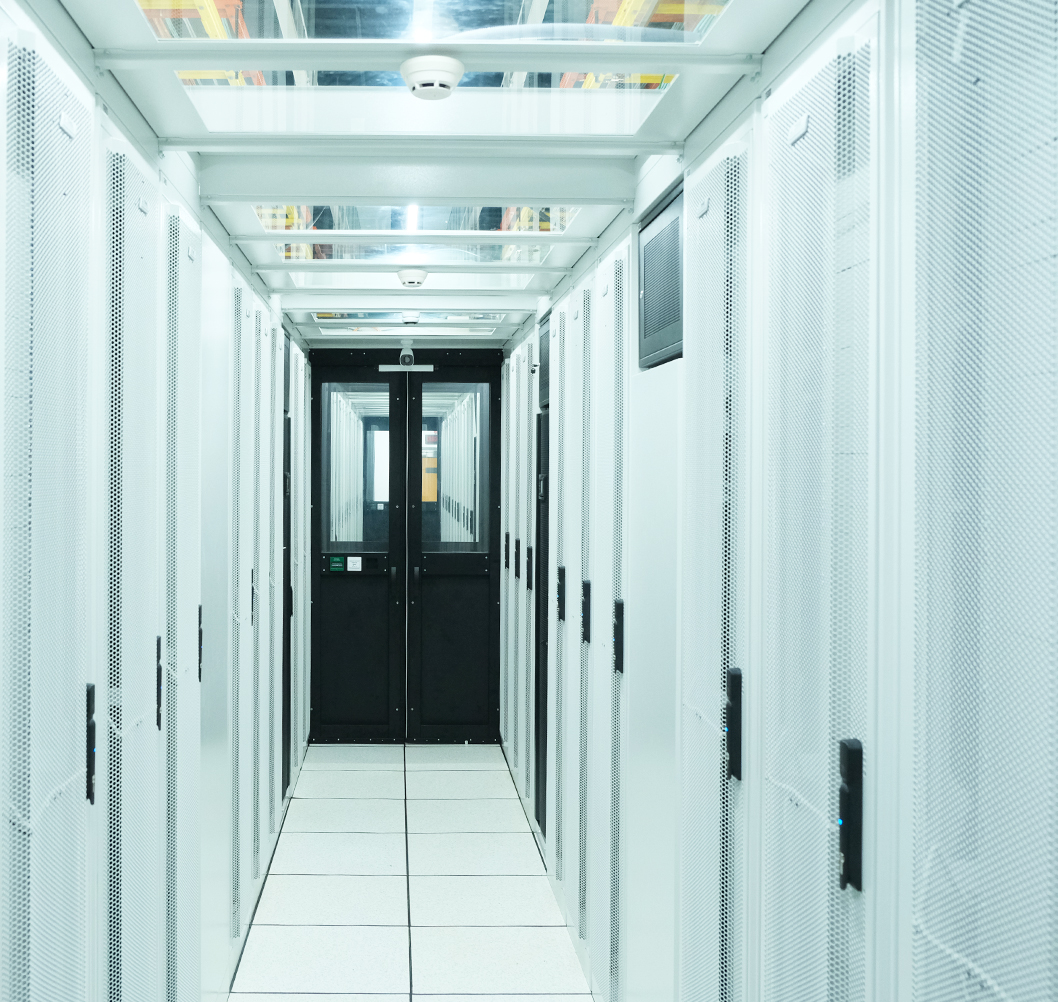
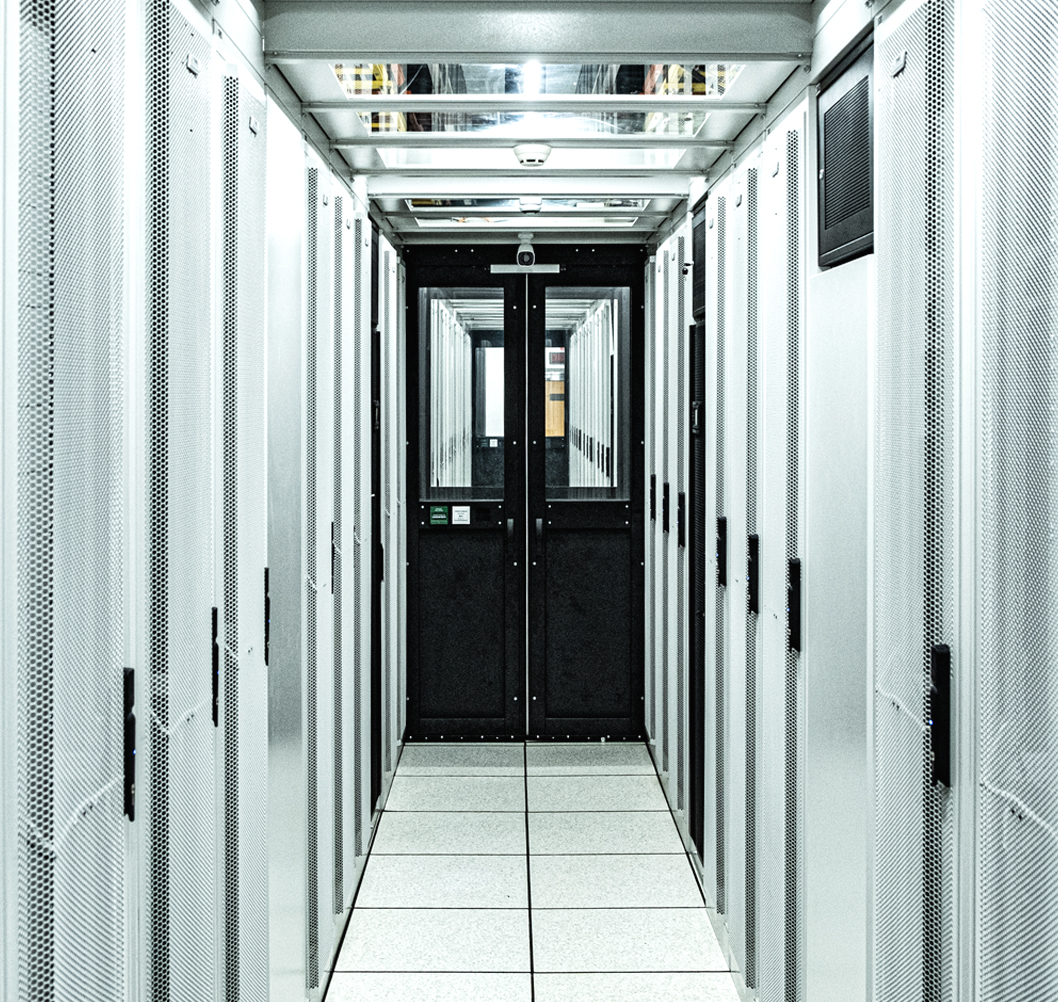
update home page

diff --git a/src/pages/index.tsx b/src/pages/index.tsx
@@ -106,7 +106,7 @@ export default function Index() {
               <CardButton
                 title="enterprise"
                 contents="Digital infra is a part of the core strategy to accelerate the digitalization. Let OrionStellar be the partner in the journey to accelerate your roadmaps."
-                image="/images/home/3.jpg"
+                image="/images/enterprise.png"
               />
             </a>
             <a className="card" href="/services#start-up">
@@ -374,12 +374,7 @@ export default function Index() {
           justify-content: space-around;
           padding: 48px 72px;
 
-          background: linear-gradient(
-            105.26deg,
-            rgba(146, 137, 200, 0.57) -4.86%,
-            rgba(255, 255, 255, 0) 108.25%,
-            rgba(255, 255, 255, 0.28) 108.25%
-          );
+          background: linear-gradient(105.26deg, rgba(192, 192, 192, 0.57) -4.86%, rgba(255, 255, 255, 0) 108.25%, rgba(255, 255, 255, 0.28) 108.25%);
           backdrop-filter: blur(40px);
         }
         .middle-banner p {
@@ -444,7 +439,7 @@ export default function Index() {
           -webkit-box-align: center;
           -ms-flex-align: center;
           align-items: center;
-          margin: 0 84px;
+          margin: 24px 84px;
         }
         .service-card-section .card {
           grid-column: span 2;
